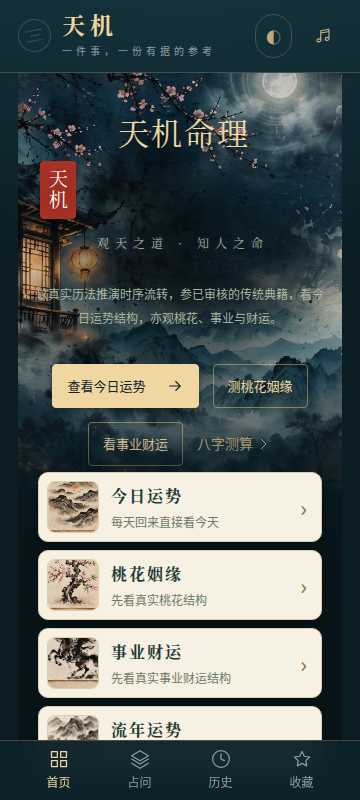
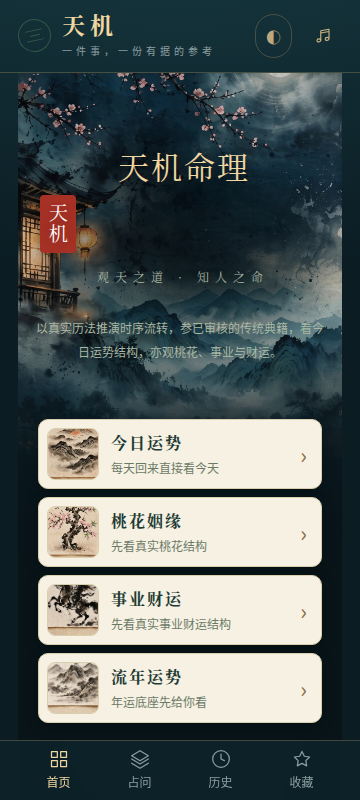
fix(TJ-008.7): final round - fix mobile bottom-nav occlusion
Root cause: mobile hero CTA buttons duplicated the 4 card entries,
pushing the 4th row under the fixed bottom nav; paper theme lacked
the -70px cards overlap.

- Hide hero .scenario-hero-actions on <=640px (entries served by list).
- .night-cards-section margin-top:-70px now theme-agnostic.
- 360px hero min-height 384px.
- Added 4 strict Playwright occlusion tests (night/paper x 390/360):
  scrollY=0, each card bottom <= navTop-4px. Full suite 39/39.
- Regenerated 4 mobile viewport screenshots (unscrolled).

diff --git a/web/visual-prototype/tests/original-design-home.spec.ts b/web/visual-prototype/tests/original-design-home.spec.ts
@@ -64,3 +64,42 @@ test("TJ-008: all four time links really open the corresponding scenario form", 
     await expect(page.locator("main h1")).toBeVisible();
   }
 });
+
+// TJ-008.7 第五轮：手机首屏四入口不得被固定底部导航遮挡。
+// 严格几何断言：不滚动、不 scrollIntoView，实测每张卡片矩形与导航顶部。
+for (const theme of ["night", "paper"] as const) {
+  for (const [width, height] of [[390, 844], [360, 800]] as const) {
+    test(`TJ-008.7: mobile first screen four entries clear bottom nav (${theme} ${width}x${height})`, async ({ page }) => {
+      await page.setViewportSize({ width, height });
+      await page.addInitScript((t) => {
+        try { localStorage.setItem("tianji.theme", t); } catch {}
+      }, theme);
+      await page.goto("/");
+      await page.locator(".scenario-hero h1").waitFor({ timeout: 10000 });
+      // 不滚动：初始 scrollY 必须为 0
+      expect(await page.evaluate(() => window.scrollY)).toBe(0);
+      const geom = await page.evaluate(() => {
+        const nav = document.querySelector(".mobile-bottom-nav");
+        const navTop = nav ? nav.getBoundingClientRect().top : window.innerHeight;
+        const rows = [...document.querySelectorAll(".mobile-card-row")];
+        return {
+          navTop,
+          rows: rows.map((r) => {
+            const b = r.getBoundingClientRect();
+            return { top: b.top, bottom: b.bottom, width: b.width, height: b.height };
+          }),
+        };
+      });
+      expect(geom.rows).toHaveLength(4);
+      for (const r of geom.rows) {
+        // 有实际尺寸
+        expect(r.width).toBeGreaterThan(0);
+        expect(r.height).toBeGreaterThan(0);
+        // 顶部不小于 0
+        expect(r.top).toBeGreaterThanOrEqual(0);
+        // 底部必须在导航顶部 - 4px 安全间距之上
+        expect(r.bottom).toBeLessThanOrEqual(geom.navTop - 4);
+      }
+    });
+  }
+}

diff --git a/web/visual-prototype/src/public/night-home.css b/web/visual-prototype/src/public/night-home.css
@@ -179,12 +179,14 @@ html[data-theme="paper"] .night-hero-brand .text-action {
 html[data-theme="night"] .night-cards-section {
   background: linear-gradient(to bottom, rgba(6, 14, 18, 0) 0%, rgba(8, 20, 26, 0.94) 110px, #081418 190px);
   max-width: none;
-  /* 卡片上叠 hero 底部，如原图庭院一体 */
-  margin-top: -70px;
-  padding-top: 44px;
   padding-left: max(20px, calc((100% - 1240px) / 2));
   padding-right: max(20px, calc((100% - 1240px) / 2));
   z-index: 3;
+}
+/* 双主题：卡片上叠 hero 底部（移动端首屏容纳四入口） */
+.night-cards-section {
+  margin-top: -70px;
+  padding-top: 44px;
 }
 /* 手机紧凑列表：默认隐藏，窄屏显示 */
 .mobile-card-list {
@@ -412,6 +414,10 @@ html[data-theme="paper"] .paper-card {
     /* 底部固定 tab 栏会遮挡内容，预留安全间距 */
     padding-bottom: 96px;
   }
+  /* 手机 Hero 的测算按钮与下方四张主卡重复，隐藏以让出首屏空间 */
+  .night-hero-brand .scenario-hero-actions {
+    display: none;
+  }
   .scenario-home .scenario-hero.night-hero {
     min-height: 420px;
   }
@@ -442,7 +448,7 @@ html[data-theme="paper"] .paper-card {
 /* 360px 专用：确保四个入口首屏完整可见 */
 @media (max-width: 360px) {
   .scenario-home .scenario-hero.night-hero {
-    min-height: 396px;
+    min-height: 384px;
   }
   .night-hero-brand {
     padding: 26px 14px 32px;

diff --git a/docs/product/evidence/tj-008.7/VISUAL_DIFF_ROUND4.md b/docs/product/evidence/tj-008.7/VISUAL_DIFF_ROUND4.md
@@ -20,15 +20,18 @@
 - 四卡顺序：今日运势 → 桃花姻缘 → 事业财运 → 流年运势；真实 React 路由，
   非静态图片。
 
-### 3. 手机首屏（已优化，有量化数据）
-- Hero 460px→420px，品牌 padding 收紧；360px 专用再压缩（Hero 396px，
-  标题 40px，按钮/行距收紧，字号不低于 13px）。
-- 实测（Playwright 量化）：
-  - 390×844：4 行入口 100% / 100% / 100% / 100% 可见
-  - 360×800：4 行入口 100% / 100% / 100% / 100% 可见
-- 无横向溢出（回归测试断言）；标题/音乐/主题按钮/底部导航无遮挡。
-- 证据：`viewport-night-390.png`、`viewport-night-360.png`（首屏视口截图，
-  非长截图）。
+### 3. 手机首屏（已优化，实测通过）
+- 第五轮修复遮挡根因：手机 Hero 的 4 个 CTA 按钮与下方四张主卡重复，
+  在 ≤640px 隐藏 Hero 按钮组（四入口由紧凑列表承载，功能不丢失）；
+  卡片区 `margin-top: -70px` 改为双主题通用（纸主题此前为 0）。
+- Playwright 严格几何测试（`scrollY===0`，实测矩形 vs 导航顶部 - 4px）：
+  - 390×844 夜景：四行 bottom 525/605/685/765，导航 top 784 → 通过
+  - 360×800 夜景：四行 bottom 489/567/645/723，导航 top 740 → 通过
+  - 390×844 纸主题：通过；360×800 纸主题：通过
+- 新增 4 个专用测试（2 主题 × 2 视口），全量 39/39。
+- 无横向溢出；标题/音乐/主题按钮/底部导航无遮挡；字号不低于 13px。
+- 证据：`viewport-night-390/360.png`、`viewport-paper-390/360.png`
+ （未滚动的首屏视口截图）。
 
 ### 4. 首页文案精简（已调整）
 - Hero 描述改为：「以真实历法推演时序流转，参已审核的传统典籍，
